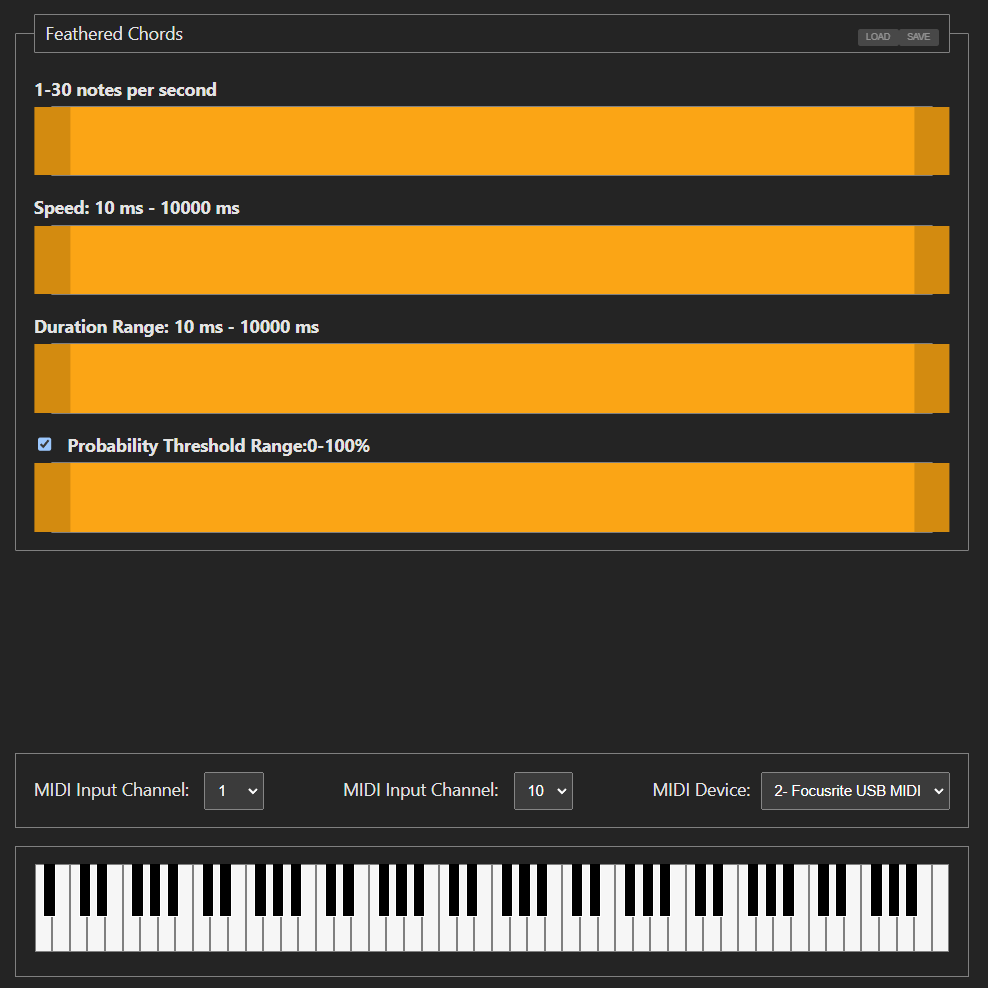
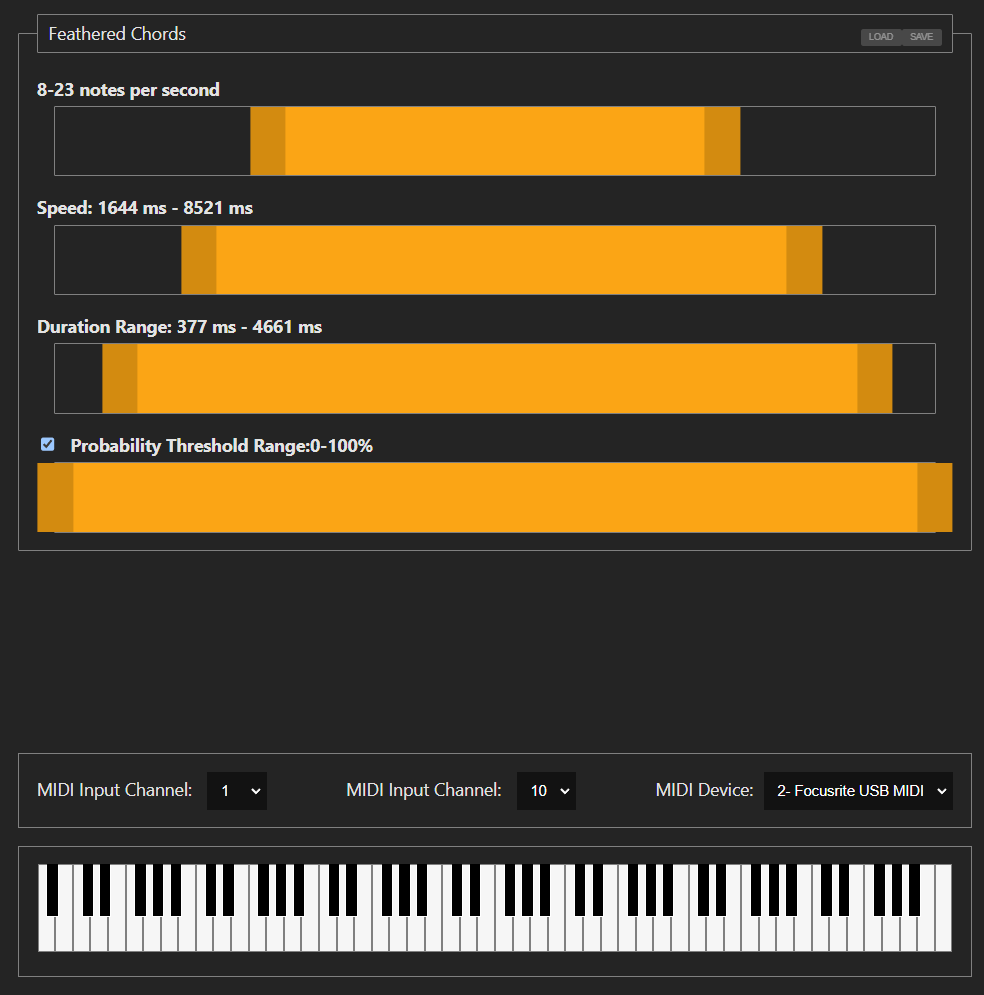
Typo!

diff --git a/src/components/Featherise.jsx b/src/components/Featherise.jsx
@@ -195,7 +195,7 @@ export default function Featherise ( { selectedOutput } ) {
 
             <div className={ styles.row }>
                 <label htmlFor="duration-input">
-                    Duration Range: { Math.floor( speedRange.minValue ) } ms - { Math.floor( speedRange.maxValue ) } ms
+                    Duration Range: { Math.floor( durationRange.minValue ) } ms - { Math.floor( durationRange.maxValue ) } ms
                 </label>
                 <RangeInput
                     id='duration-input'
